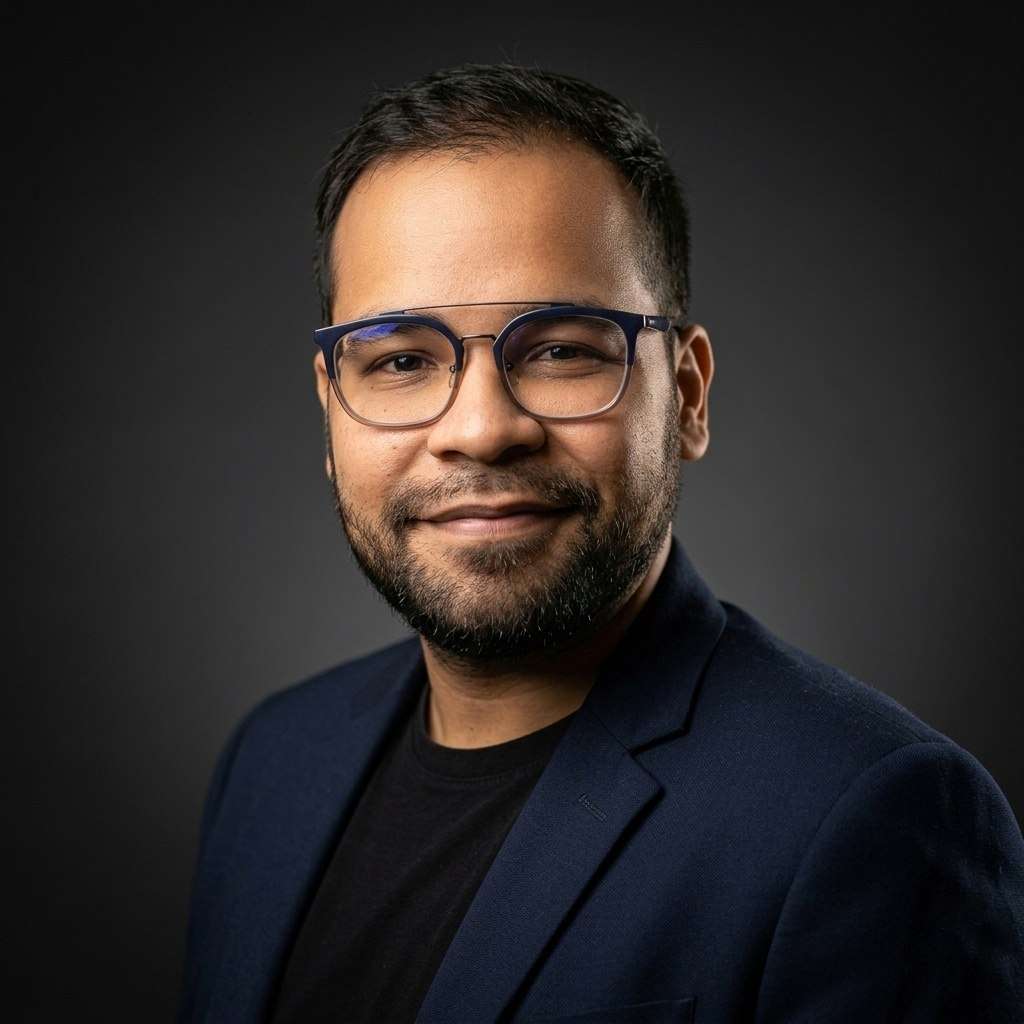
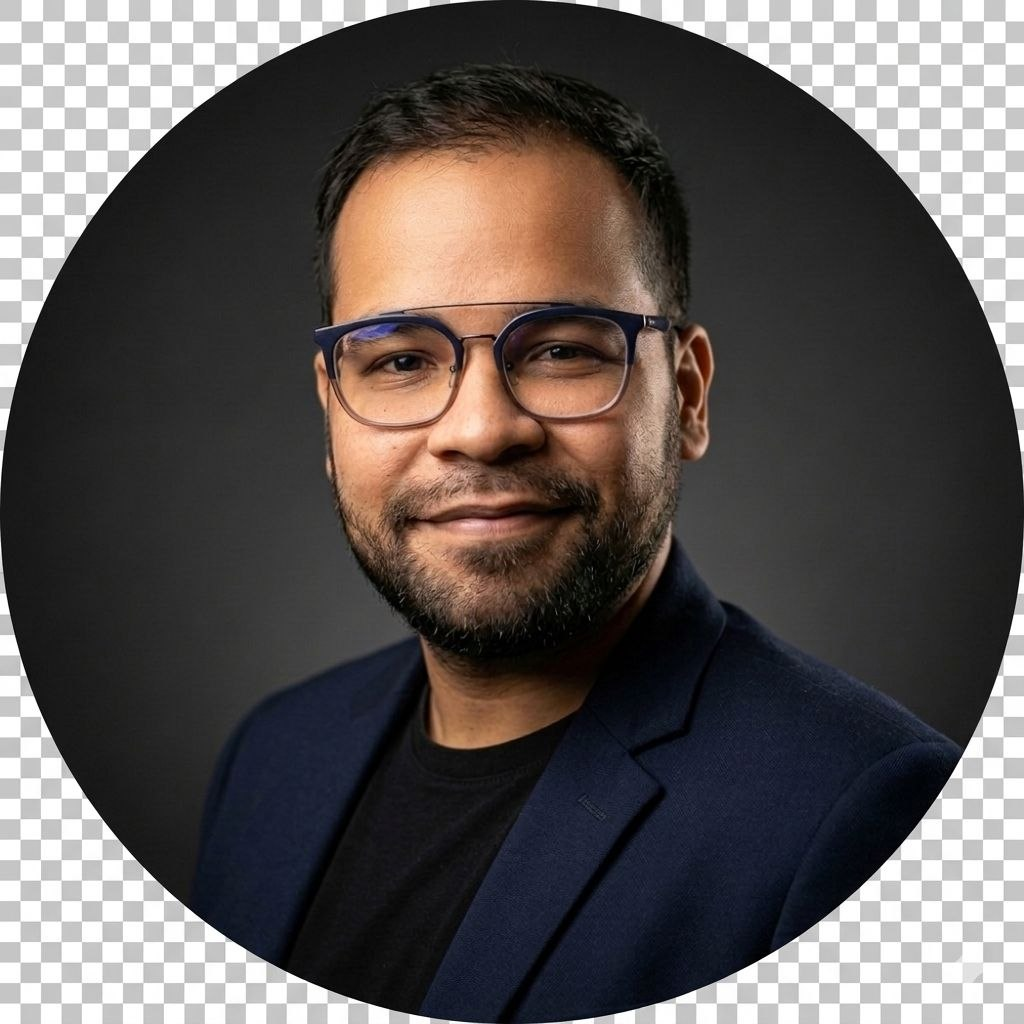
update

diff --git a/README.md b/README.md
@@ -1,6 +1,6 @@
 <div align="center">
 
-<img src="./photo.jpg" alt="Joseph Velasco" width="200" style="border-radius:50%;"/>
+<img src="./photo.jpg" alt="Joseph Velasco" width="200" style="border-radius:50%"/>
 
 # Joseph Velasco
 ### Data Analyst Jr.
